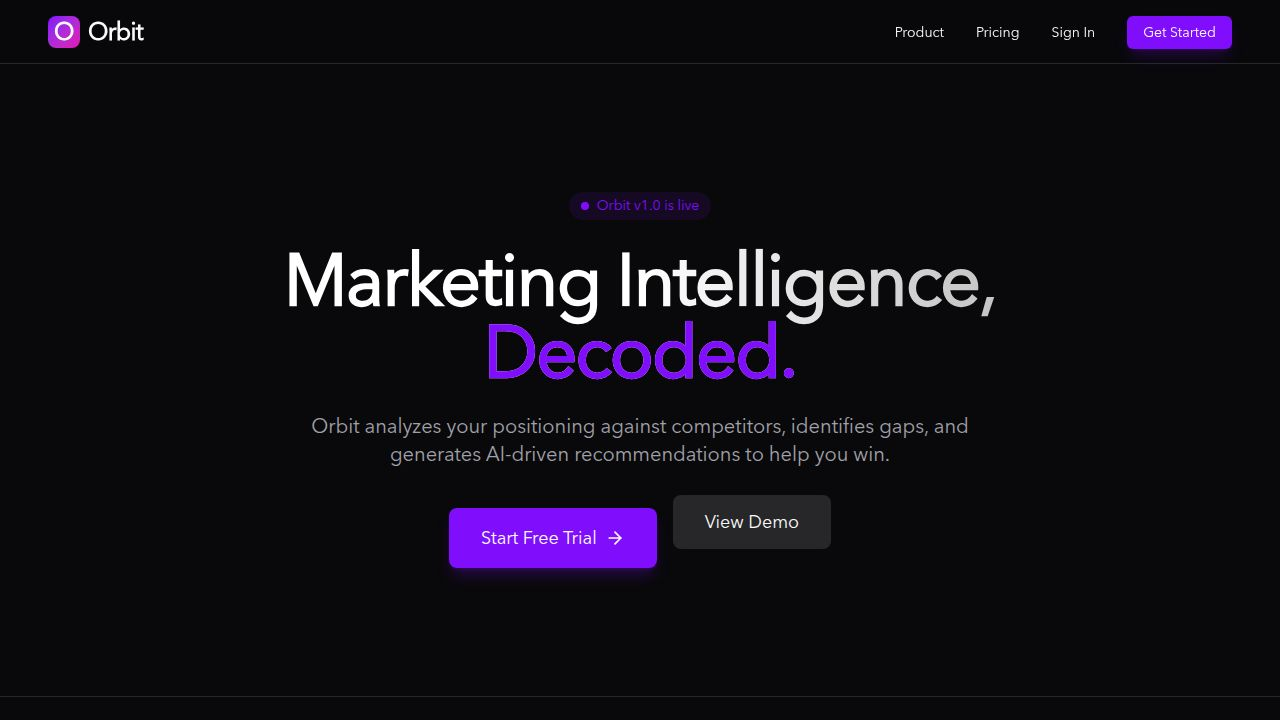
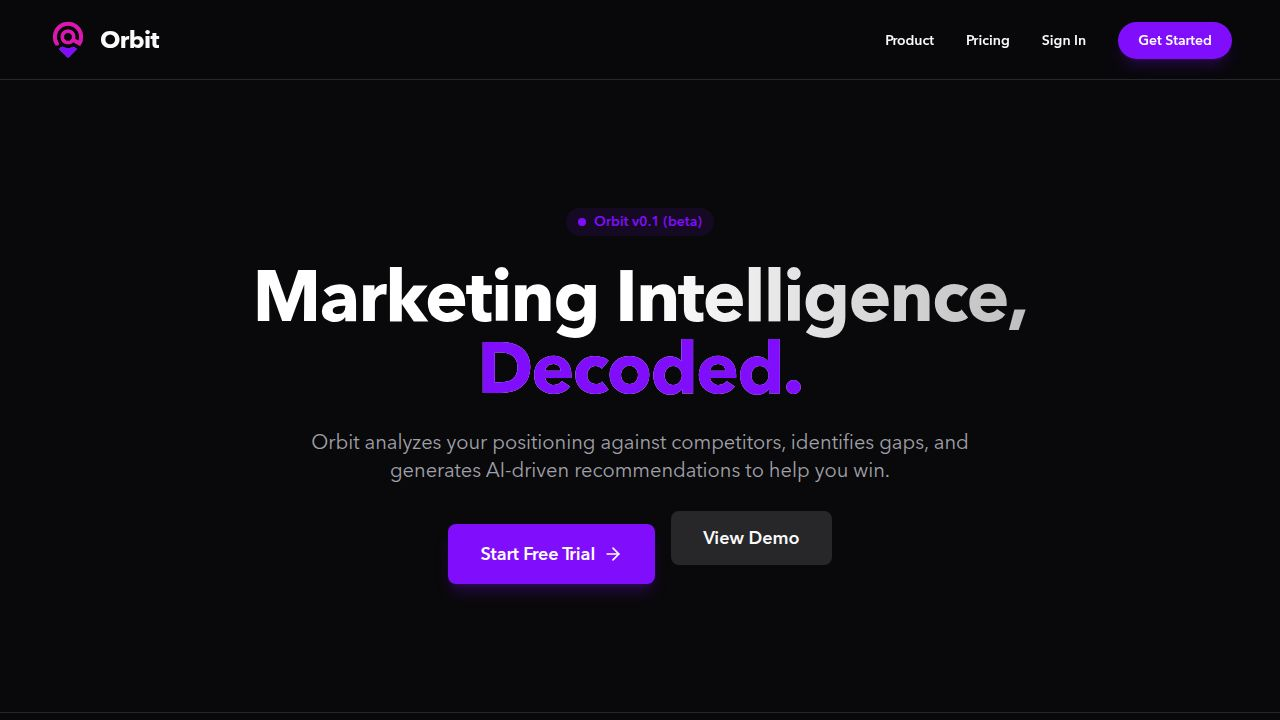
Update version text on landing page to reflect beta release
Update the version display on the landing page from "Orbit v1.0 is live" to "Orbit v0.1 (beta)".

Replit-Commit-Author: Agent
Replit-Commit-Session-Id: cae7520c-e1f2-428c-9ef5-2b4925756d92
Replit-Commit-Checkpoint-Type: full_checkpoint
Replit-Commit-Event-Id: 83e9728f-0c0d-49ee-abc1-7943276a22ea
Replit-Commit-Screenshot-Url: https://storage.googleapis.com/screenshot-production-us-central1/4bc92ae4-16a8-4580-8f70-f19fac0c101f/cae7520c-e1f2-428c-9ef5-2b4925756d92/awCPyNG
Replit-Helium-Checkpoint-Created: true

diff --git a/client/src/pages/landing.tsx b/client/src/pages/landing.tsx
@@ -16,7 +16,7 @@ export default function Landing() {
               <span className="animate-ping absolute inline-flex h-full w-full rounded-full bg-primary opacity-75"></span>
               <span className="relative inline-flex rounded-full h-2 w-2 bg-primary"></span>
             </span>
-            Orbit v1.0 is live
+            Orbit v0.1 (beta)
           </div>
           
           <h1 className="text-5xl md:text-7xl font-bold tracking-tight mb-6 bg-clip-text text-transparent bg-gradient-to-r from-white via-white to-white/70 animate-fade-in-up delay-100">
